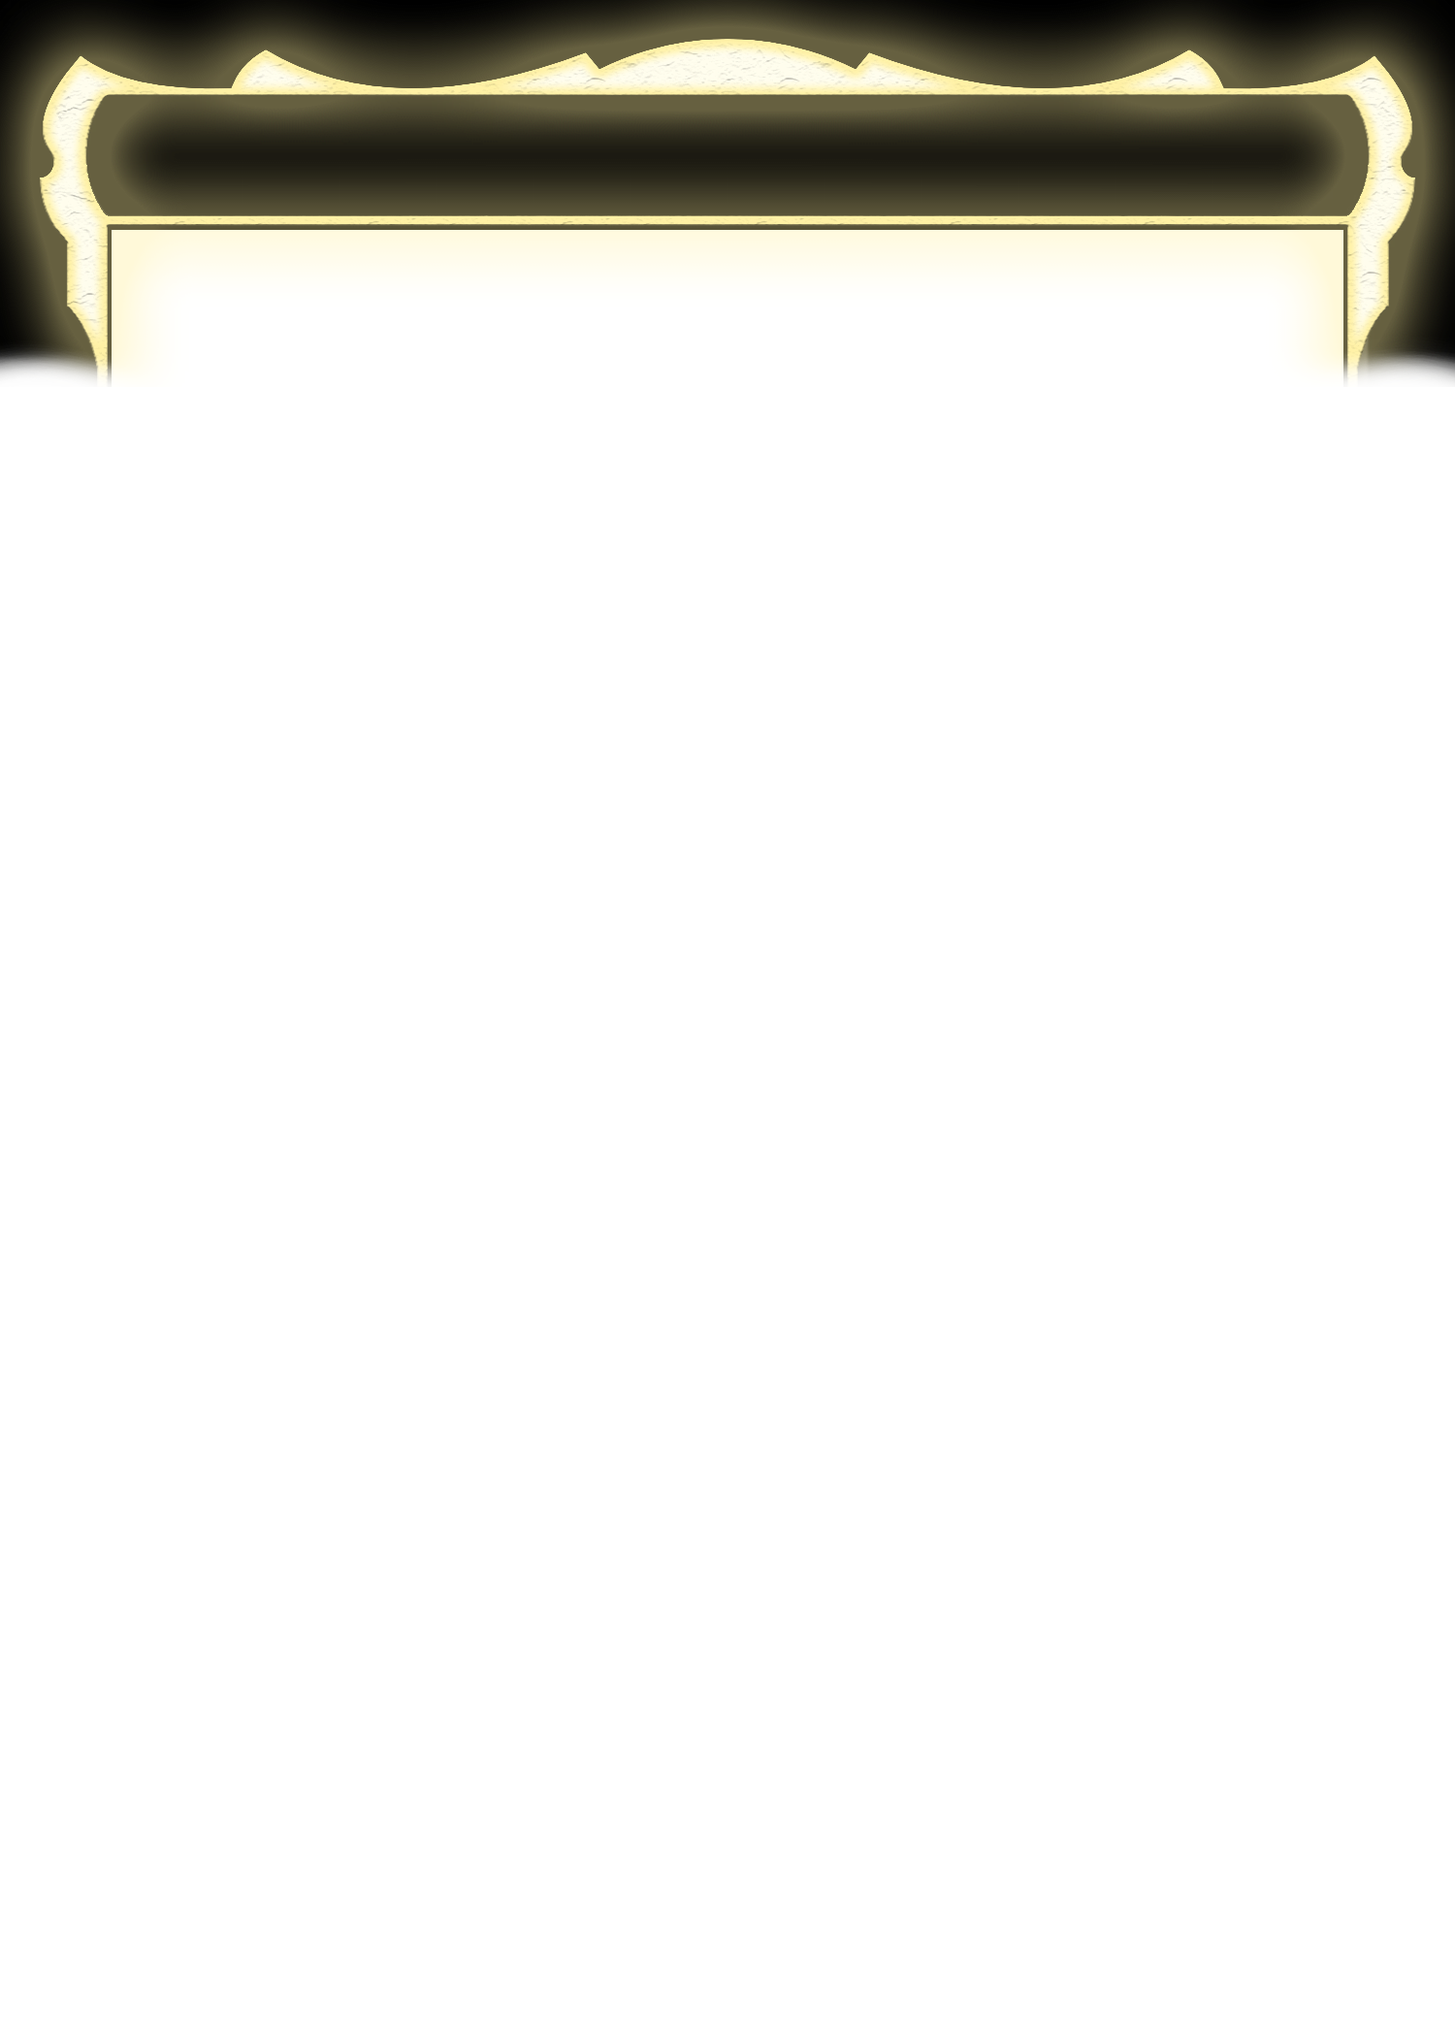
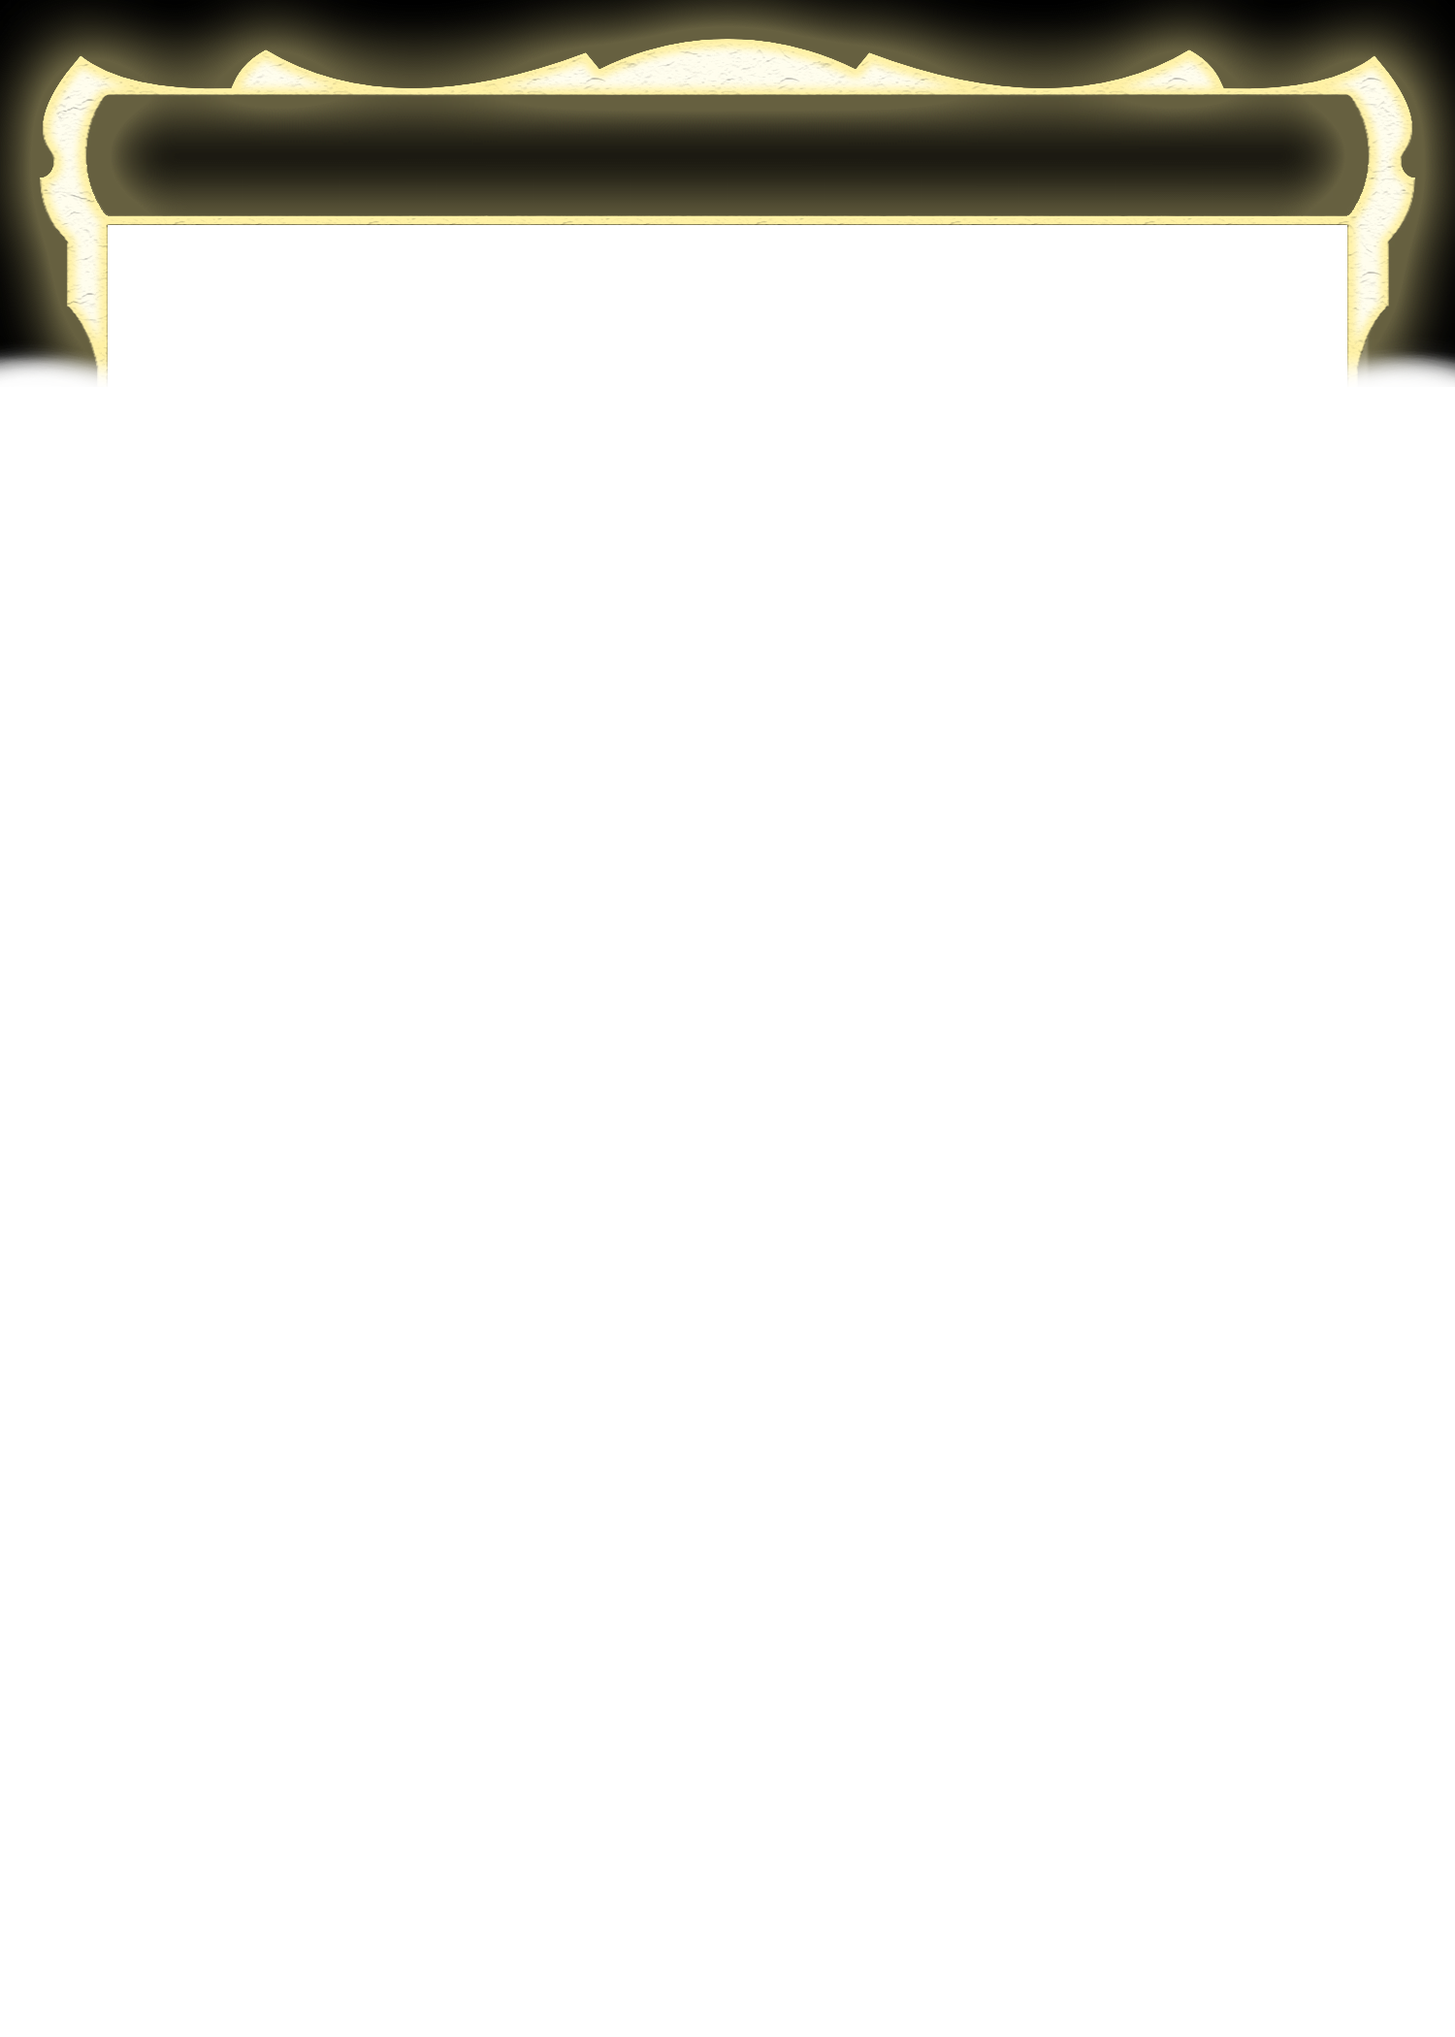
Implemented the Neon Dynasty frames

Changed region(s): [[0.0613, 0.0929, 0.9507, 0.1857]]

diff --git a/src/constants.py b/src/constants.py
@@ -157,8 +157,8 @@ FRAME_DIRECTORY_BASE_SIZES: dict[str, tuple[int, int]] = {
     "the_one_set": (1500, 2100),
     "the_one_set/poker": (2010, 2814),
     "the_one_set/showcase/breaking_news": (2100, 1500),
+    "the_one_set/showcase/chat": (2010, 2814),
     "the_one_set/showcase/transparent": (2010, 2814),
-    # TODO: the_one_set/showcase/transparent/mask/{bottom,left,right,top}.png are stray 1500x2100
     # Planeswalker
     "planeswalker/double_feature": (2010, 2814),
     "planeswalker/transform/double_feature": (2010, 2814),
@@ -491,11 +491,7 @@ FRAME_LAYOUT_EXTRAS_LIST = (
 COLOR_TAG_PATTERN = re.compile(r"\{color\((\d+),(\d+),(\d+)\)\}(.*?)\{\/color\}", flags=re.DOTALL)
 COLOR_TAG_PATTERN_NO_BRACES = re.compile(r"color\((\d+),(\d+),(\d+)\)", flags=re.DOTALL)
 
-# Recognized "{name : value}" directives that can follow frame paths or live inside text cells,
-# e.g. "chat/window{offset:(50, 70)}". Add new directive names to the alternation as they're
-# implemented. The colon is what distinguishes directives from ordinary tags like {flavor}.
-# "symbol" (on the Rarity cell) overrides the rarity/set symbol image path outright, e.g.
-# "rare{symbol:secret_lair/showcase}", resolved relative to SET_SYMBOLS_PATH with no extension.
+# Recognized "{name : value}" directives that can follow frame paths or be inside text cells
 DIRECTIVE_PATTERN = re.compile(r"\{\s*(offset|symbol)\s*:\s*([^{}]*?)\s*\}", re.IGNORECASE)
 
 # Accepts "(x, y)", "x, y", "( x , y )", negatives, etc.
@@ -899,6 +895,29 @@ POKEMON_GREEN_WHITE_PHYREXIAN_MANA = open_image(
     f"{MANA_SYMBOLS_PATH}/showcase/pokemon/hybrid/phyrexian/green_white.png"
 )
 POKEMON_GREEN_BLUE_PHYREXIAN_MANA = open_image(f"{MANA_SYMBOLS_PATH}/showcase/pokemon/hybrid/phyrexian/green_blue.png")
+
+# Custom Neon Mana Symbols
+NEON_WHITE_MANA = open_image(f"{MANA_SYMBOLS_PATH}/showcase/neon/mono/white.png")
+NEON_BLUE_MANA = open_image(f"{MANA_SYMBOLS_PATH}/showcase/neon/mono/blue.png")
+NEON_BLACK_MANA = open_image(f"{MANA_SYMBOLS_PATH}/showcase/neon/mono/black.png")
+NEON_RED_MANA = open_image(f"{MANA_SYMBOLS_PATH}/showcase/neon/mono/red.png")
+NEON_GREEN_MANA = open_image(f"{MANA_SYMBOLS_PATH}/showcase/neon/mono/green.png")
+NEON_COLORLESS_MANA = open_image(f"{MANA_SYMBOLS_PATH}/showcase/neon/mono/colorless.png")
+
+NEON_ZERO_MANA = open_image(f"{MANA_SYMBOLS_PATH}/showcase/neon/mono/0.png")
+NEON_ONE_MANA = open_image(f"{MANA_SYMBOLS_PATH}/showcase/neon/mono/1.png")
+NEON_TWO_MANA = open_image(f"{MANA_SYMBOLS_PATH}/showcase/neon/mono/2.png")
+NEON_THREE_MANA = open_image(f"{MANA_SYMBOLS_PATH}/showcase/neon/mono/3.png")
+NEON_FOUR_MANA = open_image(f"{MANA_SYMBOLS_PATH}/showcase/neon/mono/4.png")
+NEON_FIVE_MANA = open_image(f"{MANA_SYMBOLS_PATH}/showcase/neon/mono/5.png")
+NEON_SIX_MANA = open_image(f"{MANA_SYMBOLS_PATH}/showcase/neon/mono/6.png")
+NEON_SEVEN_MANA = open_image(f"{MANA_SYMBOLS_PATH}/showcase/neon/mono/7.png")
+NEON_EIGHT_MANA = open_image(f"{MANA_SYMBOLS_PATH}/showcase/neon/mono/8.png")
+NEON_NINE_MANA = open_image(f"{MANA_SYMBOLS_PATH}/showcase/neon/mono/9.png")
+
+NEON_X_MANA = open_image(f"{MANA_SYMBOLS_PATH}/showcase/neon/variable/x.png")
+
+NEON_TAP = open_image(f"{MANA_SYMBOLS_PATH}/showcase/neon/tap/tap.png")
 
 # Showcase Pixel Mana Symbols
 PIXEL_WHITE_MANA = open_image(f"{MANA_SYMBOLS_PATH}/showcase/pixel/mono/white.png")
@@ -1592,6 +1611,31 @@ POKEMON_SYMBOL_PLACEHOLDER_KEY = {
     "pg/pu": Symbol(POKEMON_GREEN_BLUE_PHYREXIAN_MANA, HYBRID_MANA_SYMBOL_SIZE_MULT),
     "up/gp": Symbol(POKEMON_GREEN_BLUE_PHYREXIAN_MANA, HYBRID_MANA_SYMBOL_SIZE_MULT),
     "pu/pg": Symbol(POKEMON_GREEN_BLUE_PHYREXIAN_MANA, HYBRID_MANA_SYMBOL_SIZE_MULT),
+}
+
+NEON_SYMBOL_PLACEHOLDER_KEY = {
+    # Mono-Colored Mana
+    "w": Symbol(NEON_WHITE_MANA),
+    "u": Symbol(NEON_BLUE_MANA),
+    "b": Symbol(NEON_BLACK_MANA),
+    "r": Symbol(NEON_RED_MANA),
+    "g": Symbol(NEON_GREEN_MANA),
+    "c": Symbol(NEON_COLORLESS_MANA),
+    # Numbered Mana
+    "0": Symbol(NEON_ZERO_MANA),
+    "1": Symbol(NEON_ONE_MANA),
+    "2": Symbol(NEON_TWO_MANA),
+    "3": Symbol(NEON_THREE_MANA),
+    "4": Symbol(NEON_FOUR_MANA),
+    "5": Symbol(NEON_FIVE_MANA),
+    "6": Symbol(NEON_SIX_MANA),
+    "7": Symbol(NEON_SEVEN_MANA),
+    "8": Symbol(NEON_EIGHT_MANA),
+    "9": Symbol(NEON_NINE_MANA),
+    # Tapping
+    "t": Symbol(NEON_TAP),
+    # Variable Mana
+    "x": Symbol(NEON_X_MANA),
 }
 
 PIXEL_SYMBOL_RESAMPLE = Image.NEAREST

diff --git a/src/main.py b/src/main.py
@@ -70,6 +70,7 @@ from model.battle.Battle import Battle
 from model.battle.TransformBattle import TransformBattle
 from model.class_.Class import Class
 from model.conspiracy.Conspiracy import Conspiracy
+from model.custom.Neon import Neon
 from model.custom.Pokemon import Pokemon
 from model.dungeon.Dungeon import Dungeon
 from model.dungeon.ExpandedDungeonGlobal import ExpandedDungeonGlobal
@@ -84,6 +85,7 @@ from model.old.FourthEdition import FourthEdition
 from model.omen.Omen import Omen
 from model.planeswalker.Planeswalker import Planeswalker
 from model.prepare.Prepare import Prepare
+from model.pycok.Edifice import Edifice
 from model.regular.RegularCard import RegularCard
 from model.regular.RegularSplitRulesText import RegularSplitRulesText
 from model.room.Room import Room
@@ -99,7 +101,7 @@ from model.showcase.full_art_basic.FullArtBasicTHB import FullArtBasicTHB
 from model.showcase.FullText import FullText
 from model.showcase.FutureShifted import FutureShifted
 from model.showcase.Japan import Japan
-from model.showcase.lotr.ring import RingLOTR
+from model.showcase.lotr.Ring import RingLOTR
 from model.showcase.lotr.Scroll import ScrollLOTR
 from model.showcase.mystical_archive.japan.JapaneseMysticalArchive import (
     JapaneseMysticalArchive,
@@ -107,6 +109,8 @@ from model.showcase.mystical_archive.japan.JapaneseMysticalArchive import (
 from model.showcase.mystical_archive.japan.JapaneseMysticalArchiveHorizontal import (
     JapaneseMysticalArchiveHorizontal,
 )
+from model.showcase.neon.NeonDynasty import NeonDynasty
+from model.showcase.neon.ShortNeonDynasty import ShortNeonDynasty
 from model.showcase.Pixel import Pixel
 from model.showcase.Playtest import Playtest
 from model.showcase.promo.ExtendedPromo import ExtendedPromo
@@ -120,7 +124,6 @@ from model.showcase.textless.Textless import Textless
 from model.showcase.Zendikar import Zendikar
 from model.split.fuse.Fuse import Fuse
 from model.split.Split import Split
-from model.the_one_set.Edifice import Edifice
 from model.the_one_set.showcase.Chat import Chat
 from model.the_one_set.showcase.Coup import Coup
 from model.the_one_set.showcase.meme.DemotivationalPoster import DemotivationalPoster
@@ -564,6 +567,7 @@ def process_spreadsheets(
         "4th edition": FourthEdition,
         "8th edition": EighthEdition,
         # Custom
+        "neon": Neon,
         "pokemon": Pokemon,
         # Showcase
         "transparent": Transparent,
@@ -586,6 +590,8 @@ def process_spreadsheets(
         "stained glass": StainedGlass,
         "extended": Extended,
         "short extended": ShortExtended,
+        "neon dynasty": NeonDynasty,
+        "short neon dynasty": ShortNeonDynasty,
         "frameless": Frameless,
         "textless": Textless,
         "textless magic fest 2025": MagicFest2025,

diff --git a/src/model/custom/Neon.py b/src/model/custom/Neon.py
@@ -1,0 +1,75 @@
+from constants import NEON_SYMBOL_PLACEHOLDER_KEY
+from model.Layer import Layer
+from model.regular.RegularCard import RegularCard
+
+
+class Neon(RegularCard):
+    """
+    A layered image representing a card with a custom neon frame and all the collection info on
+    it, with all relevant card metadata. Every text element is positioned exactly as it would be
+    on a regular card, but rendered in white to match the frame's neon glow, and mana symbols are
+    drawn from a dedicated neon symbol set.
+
+    Attributes
+    ----------
+    metadata : dict[str, str | list], optional
+        Information about the card (title, mana cost, rules text, frame, etc.)
+
+    base_width : int, optional
+        The width of the root image. Determined by the frame layout in the metadata if not given.
+
+    base_height : int, optional
+        The height of the root image. Determined by the frame layout in the metadata if not given.
+
+    art_layer : Layer, optional
+        The art to use in the art slot of the frame. Renders first, before the frame layers.
+
+    frame_layers : list[Layer], optional
+        The layers of card frames. Lower-index layers are rendered first. Renders after art, before collector info.
+
+    collector_layers : list[Layer], optional
+        The layers of collector info. Lower-index layers are rendered first. Renders after frames, before text.
+
+    text_layers : list[Layer], optional
+        The layers of card text. Lower-index layers are rendered first. Renders after collector info and frames.
+
+    overlay_layers : list[Layer], optional
+        Any additional layers to render above everything else on the card. Rendered absolutely last.
+    """
+
+    def __init__(
+        self,
+        metadata: dict[str, str | list["RegularCard"]] = None,
+        art_layer: Layer = None,
+        frame_layers: list[Layer] = None,
+        collector_layers: list[Layer] = None,
+        text_layers: list[Layer] = None,
+        overlay_layers: list[Layer] = None,
+    ):
+        super().__init__(
+            metadata,
+            art_layer,
+            frame_layers,
+            collector_layers,
+            text_layers,
+            overlay_layers,
+        )
+
+        # Symbols
+        self.MANA_SYMBOL_KEY = NEON_SYMBOL_PLACEHOLDER_KEY
+
+        # Mana Cost
+        self.MANA_COST_TEXT_COLOR = (255, 255, 255)
+        self.MANA_COST_SYMBOL_SHADOW_OFFSET = (0, 0)
+
+        # Title Text
+        self.TITLE_FONT_COLOR = (255, 255, 255)
+
+        # Type Text
+        self.TYPE_FONT_COLOR = (255, 255, 255)
+
+        # Rules Text
+        self.RULES_TEXT_FONT_COLOR = (255, 255, 255)
+
+        # Power & Toughness Text
+        self.POWER_TOUGHNESS_FONT_COLOR = (255, 255, 255)

diff --git a/src/model/showcase/neon/ShortNeonDynasty.py b/src/model/showcase/neon/ShortNeonDynasty.py
@@ -1,0 +1,74 @@
+from model.Layer import Layer
+from model.regular.RegularCard import RegularCard
+from model.showcase.neon.NeonDynasty import NeonDynasty
+
+TYPE_BAR_Y_OFFSET = 382
+
+
+class ShortNeonDynasty(NeonDynasty):
+    """
+    A layered image representing a card with a short neon showcase frame and all the collection info on it,
+    with all relevant card metadata. As NeonDynasty, but the type bar (and therefore the rules text box
+    below it) is shifted 382 pixels lower, shortening the rules text box by the same amount.
+
+    Attributes
+    ----------
+    metadata : dict[str, str | list], optional
+        Information about the card (title, mana cost, rules text, frame, etc.)
+
+    base_width : int, optional
+        The width of the root image. Determined by the frame layout in the metadata if not given.
+
+    base_height : int, optional
+        The height of the root image. Determined by the frame layout in the metadata if not given.
+
+    art_layer : Layer, optional
+        The art to use in the art slot of the frame. Renders first, before the frame layers.
+
+    frame_layers : list[Layer], optional
+        The layers of card frames. Lower-index layers are rendered first. Renders after art, before collector info.
+
+    collector_layers : list[Layer], optional
+        The layers of collector info. Lower-index layers are rendered first. Renders after frames, before text.
+
+    text_layers : list[Layer], optional
+        The layers of card text. Lower-index layers are rendered first. Renders after collector info and frames.
+
+    overlay_layers : list[Layer], optional
+        Any additional layers to render above everything else on the card. Rendered absolutely last.
+    """
+
+    def __init__(
+        self,
+        metadata: dict[str, str | list["RegularCard"]] = None,
+        art_layer: Layer = None,
+        frame_layers: list[Layer] = None,
+        collector_layers: list[Layer] = None,
+        text_layers: list[Layer] = None,
+        overlay_layers: list[Layer] = None,
+    ):
+        super().__init__(
+            metadata,
+            art_layer,
+            frame_layers,
+            collector_layers,
+            text_layers,
+            overlay_layers,
+        )
+
+        # Type Box
+        self.TYPE_BOX_Y += TYPE_BAR_Y_OFFSET
+
+        # Type Text
+        self.TYPE_BOTTOM_Y += TYPE_BAR_Y_OFFSET
+
+        # Rules Text Box
+        self.RULES_BOX_Y += TYPE_BAR_Y_OFFSET
+        self.RULES_BOX_HEIGHT -= TYPE_BAR_Y_OFFSET
+
+        # Rules Text
+        self.RULES_TEXT_Y += TYPE_BAR_Y_OFFSET
+        self.RULES_TEXT_HEIGHT -= TYPE_BAR_Y_OFFSET
+
+        # Set / Rarity Symbol
+        self.SET_SYMBOL_Y += TYPE_BAR_Y_OFFSET

diff --git a/src/model/showcase/neon/NeonDynasty.py b/src/model/showcase/neon/NeonDynasty.py
@@ -1,0 +1,68 @@
+from model.Layer import Layer
+from model.regular.RegularCard import RegularCard
+
+
+class NeonDynasty(RegularCard):
+    """
+    A layered image representing a card with a neon showcase frame and all the collection info on it,
+    with all relevant card metadata. Identical to a regular card except the title, type, rules, and
+    power/toughness text are all white to match the frame's glowing edges.
+
+    Attributes
+    ----------
+    metadata : dict[str, str | list], optional
+        Information about the card (title, mana cost, rules text, frame, etc.)
+
+    base_width : int, optional
+        The width of the root image. Determined by the frame layout in the metadata if not given.
+
+    base_height : int, optional
+        The height of the root image. Determined by the frame layout in the metadata if not given.
+
+    art_layer : Layer, optional
+        The art to use in the art slot of the frame. Renders first, before the frame layers.
+
+    frame_layers : list[Layer], optional
+        The layers of card frames. Lower-index layers are rendered first. Renders after art, before collector info.
+
+    collector_layers : list[Layer], optional
+        The layers of collector info. Lower-index layers are rendered first. Renders after frames, before text.
+
+    text_layers : list[Layer], optional
+        The layers of card text. Lower-index layers are rendered first. Renders after collector info and frames.
+
+    overlay_layers : list[Layer], optional
+        Any additional layers to render above everything else on the card. Rendered absolutely last.
+    """
+
+    def __init__(
+        self,
+        metadata: dict[str, str | list["RegularCard"]] = None,
+        art_layer: Layer = None,
+        frame_layers: list[Layer] = None,
+        collector_layers: list[Layer] = None,
+        text_layers: list[Layer] = None,
+        overlay_layers: list[Layer] = None,
+    ):
+        super().__init__(
+            metadata,
+            art_layer,
+            frame_layers,
+            collector_layers,
+            text_layers,
+            overlay_layers,
+        )
+
+        # Title Text
+        self.TITLE_FONT_COLOR = (255, 255, 255)
+
+        # Type Text
+        self.TYPE_FONT_COLOR = (255, 255, 255)
+
+        # Rules Text
+        self.RULES_TEXT_FONT_COLOR = (255, 255, 255)
+        self.RULES_TEXT_Y = 1747
+        self.RULES_TEXT_HEIGHT = 800
+
+        # Power & Toughness Text
+        self.POWER_TOUGHNESS_FONT_COLOR = (255, 255, 255)

diff --git a/Documentation/REFERENCE.md b/Documentation/REFERENCE.md
@@ -169,6 +169,8 @@ In the **Multi-line cells** column, `⏎` means the cell is read line by line an
 | `Stained Glass` | — | Regular geometry with all text white. |
 | `Extended` | — | Regular geometry; type line text is white. |
 | `Short Extended` | — | As `Extended`, but the rules text box is slightly shorter. |
+| `Neon Dynasty` | — | Regular geometry; title, type, rules, and P/T text are all white. |
+| `Short Neon Dynasty` | — | As `Neon Dynasty`, but the rules text box is shorter. |
 | `Frameless` | — | No frame art but a footer bar; all text white and outlined; rules text starts at the top of its box instead of being vertically centered. |
 | `Textless` | — | No rules text or watermark; white title/type/P-T text; type line and set symbol moved 711px lower. |
 | `Textless Magic Fest 2025` | — | As `Textless`, but with no type line or set symbol, and black P/T text. |
